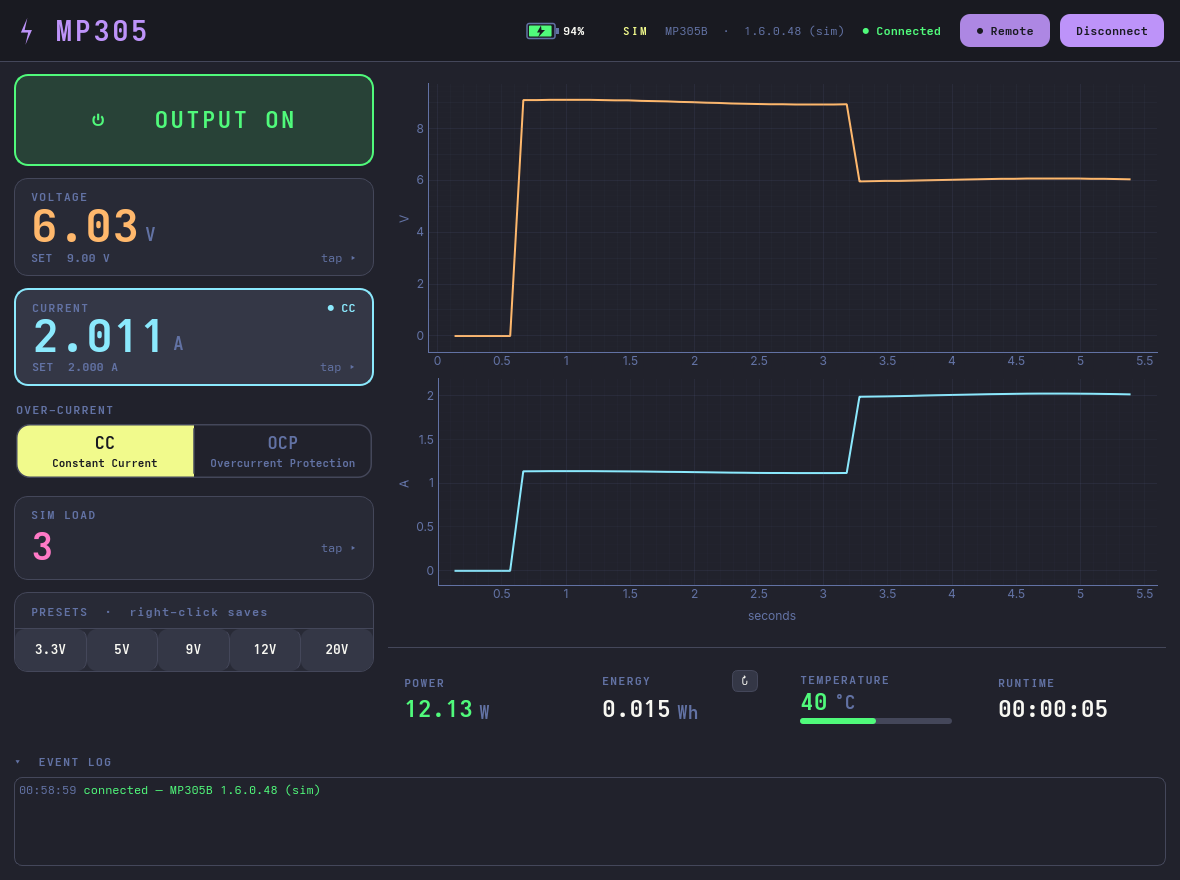
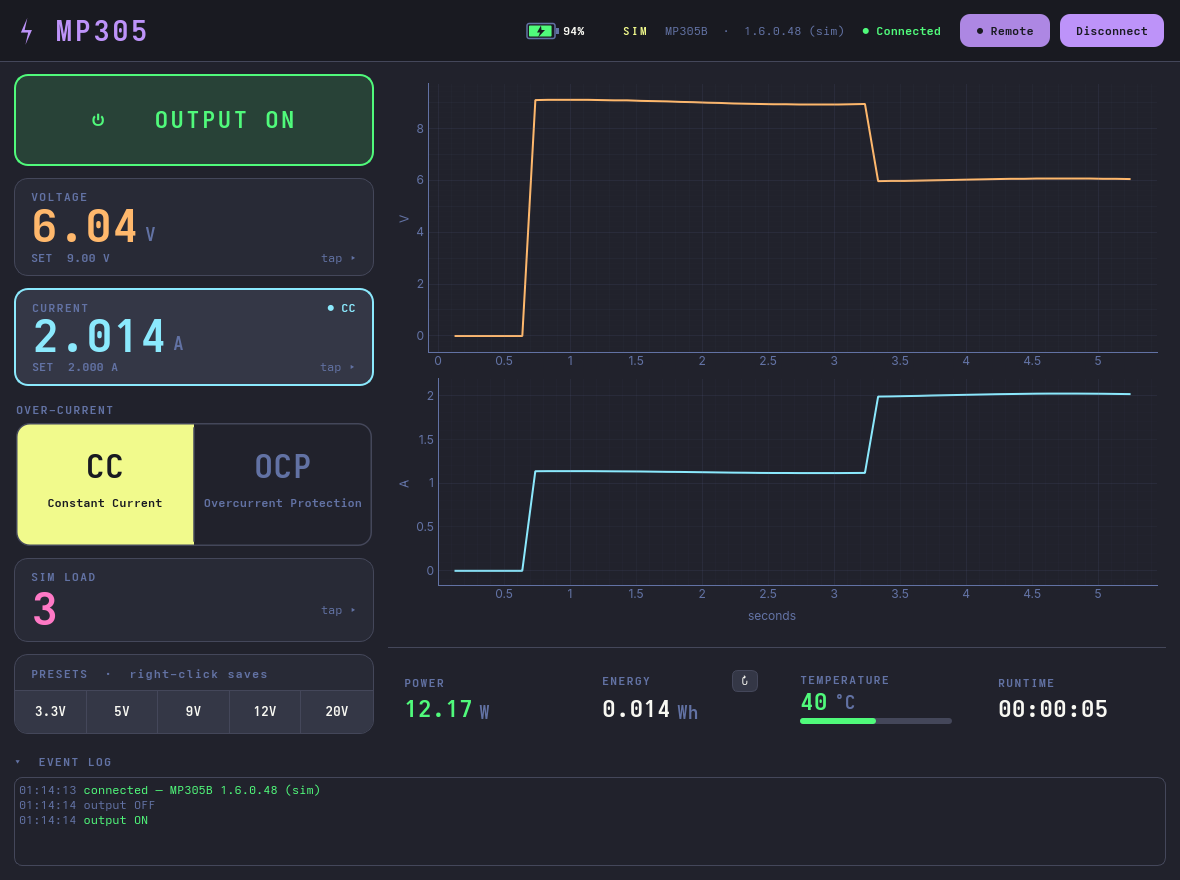
GUI: set-point swap when output off, larger CC/OCP toggle, preset corners + 0.4.6
- channel cards swap with output state: the SET-POINT is the big readable number while the
  output is OFF (with a SET tag + 'output off' subtitle); the live measurement is big when ON
- over-current CC|OCP toggle scales to fill the left column so it matches the right column's
  height (larger code, height-scaled fonts capped so the descriptions don't clip)
- SIM LOAD value sized to match the channel readouts (mono 34)
- fix preset button-group corners (square inner; only the group's outer bottoms rounded)
- bump 0.4.6 (library unchanged)

diff --git a/gui/mp305gui/app.py b/gui/mp305gui/app.py
@@ -89,8 +89,8 @@ class SegToggle(QWidget):
 
     def __init__(self, cells):                       # cells = [(code, description, color), ...]
         super().__init__(); self._cells = cells; self._idx = 0
-        self.setFixedHeight(54)
-        self.setSizePolicy(QSizePolicy.Policy.Expanding, QSizePolicy.Policy.Fixed)
+        self.setMinimumHeight(58)
+        self.setSizePolicy(QSizePolicy.Policy.Expanding, QSizePolicy.Policy.Expanding)
         self.setMinimumWidth(110 * len(cells))
         self.setCursor(Qt.CursorShape.PointingHandCursor)
 
@@ -107,20 +107,23 @@ class SegToggle(QWidget):
         p = QPainter(self); p.setRenderHint(QPainter.RenderHint.Antialiasing)
         w, h = self.width(), self.height(); r = 13; n = len(self._cells); cw = w / n   # card-shaped
         outer = QRectF(0.75, 0.75, w - 1.5, h - 1.5)
-        fcode = QFont(); fcode.setPointSize(13); fcode.setBold(True)
-        fsub = QFont(); fsub.setPointSize(8); fsub.setBold(True)
+        code_pt = int(max(14, min(26, h * 0.20)))    # scale the code with the cell height
+        sub_pt = int(max(8, min(10, h * 0.075)))      # cap: the descriptions are long, must not clip
+        fcode = QFont(); fcode.setPointSize(code_pt); fcode.setBold(True)
+        fsub = QFont(); fsub.setPointSize(sub_pt); fsub.setBold(True)
+        mid = h / 2
         for i, (code, sub, col) in enumerate(self._cells):
             x = i * cw; active = i == self._idx
             if active:
                 p.save(); p.setClipRect(QRectF(x, 0, cw, h))
                 p.setPen(Qt.PenStyle.NoPen); p.setBrush(QColor(col)); p.drawRoundedRect(outer, r, r)
                 p.restore()
-            code_col = QColor(C["panel"]) if active else QColor(C["text"] if active else C["muted"])
+            code_col = QColor(C["panel"]) if active else QColor(C["muted"])
             sub_col = QColor(C["panel"]) if active else QColor(C["muted"])
             p.setFont(fcode); p.setPen(code_col)
-            p.drawText(QRectF(x, h * 0.16, cw, h * 0.40), Qt.AlignmentFlag.AlignCenter, code)
+            p.drawText(QRectF(x, mid - h * 0.30, cw, h * 0.32), Qt.AlignmentFlag.AlignCenter, code)
             p.setFont(fsub); p.setPen(sub_col)
-            p.drawText(QRectF(x + 3, h * 0.55, cw - 6, h * 0.36), Qt.AlignmentFlag.AlignCenter, sub)
+            p.drawText(QRectF(x + 3, mid + h * 0.02, cw - 6, h * 0.26), Qt.AlignmentFlag.AlignCenter, sub)
         p.setPen(QPen(QColor(C["stroke"]), 1.5)); p.setBrush(Qt.BrushStyle.NoBrush)
         p.drawRoundedRect(outer, r, r)
         for i in range(1, n):
@@ -273,6 +276,7 @@ class ChannelCard(QFrame):
         self._unit, self._title, self._max = unit, title, vmax
         self._dec, self._color, self._measured = dec, color, measured
         self._set = 0.0; self._active = False
+        self._out_on = False; self._meas_val = 0.0
         self._base = f"#chan{{background:{C['card']};border:1px solid {C['stroke']};border-radius:14px;}}"
         self._hover = f"#chan{{background:{C['card_hi']};border:1px solid {C['hover']};border-radius:14px;}}"
         self._act = f"#chan{{background:{C['card_hi']};border:2px solid {color};border-radius:14px;}}"
@@ -289,7 +293,7 @@ class ChannelCard(QFrame):
             mu = QLabel(unit); mu.setProperty("class", "unit"); mrow.addWidget(mu, 0, Qt.AlignmentFlag.AlignBottom)
             mrow.addStretch(1); v.addLayout(mrow)
         srow = QHBoxLayout()
-        self.setlab = QLabel(""); self.setlab.setFont(mono(28) if not measured else QFont())
+        self.setlab = QLabel(""); self.setlab.setFont(mono(34) if not measured else QFont())
         if not measured:
             self.setlab.setStyleSheet(f"color:{color};")
         srow.addWidget(self.setlab); srow.addStretch(1); srow.addWidget(_lab("tap ▸", "sub"))
@@ -300,21 +304,46 @@ class ChannelCard(QFrame):
 
     def set_measured(self, val):
         if self._measured:
-            self.meas.setText(f"{val:.{self._dec}f}")
+            self._meas_val = val
+            if self._out_on:
+                self.meas.setText(f"{val:.{self._dec}f}")
+
+    def set_live(self, on):
+        if self._measured and on != self._out_on:
+            self._out_on = on
+            self._refresh_primary()
+
+    def _refresh_primary(self):
+        # the BIG number is the live measurement while output is ON, but the SET-POINT while
+        # it's OFF — so the configured V/A stays big and readable instead of a meaningless 0.
+        if not self._measured:
+            return
+        if self._out_on:
+            self.meas.setText(f"{self._meas_val:.{self._dec}f}")
+            self.setlab.setText(f"SET  {self._set:.{self._dec}f} {self._unit}")
+        else:
+            self.meas.setText(f"{self._set:.{self._dec}f}")
+            self.setlab.setText("output off")
+            self.tag.setText("SET"); self.tag.setStyleSheet(f"color:{C['muted']};font-weight:800;letter-spacing:1px;")
+        self.meas.setStyleSheet(f"color:{self._color};")
+        self.setlab.setStyleSheet(f"color:{C['muted']};font-weight:700;")
 
     def set_setpoint(self, v, emit=False):
         self._set = max(0.0, min(self._max, round(v, self._dec)))
-        txt = f"{self._set:.{self._dec}f}"
-        self.setlab.setText(txt if not self._measured else f"SET  {txt} {self._unit}")
-        self.setlab.setStyleSheet(f"color:{self._color};" if not self._measured
-                                  else f"color:{C['muted']};font-weight:700;")
+        if self._measured:
+            self._refresh_primary()
+        else:
+            self.setlab.setText(f"{self._set:.{self._dec}f}")
+            self.setlab.setStyleSheet(f"color:{self._color};")
         if emit:
             self.changed.emit(self._set)
 
     def set_active(self, active, tag):
         self._active = active
         self.setStyleSheet(self._act if active else self._base)
-        self.tag.setText(("● " + tag) if active else "")
+        if self._out_on:                       # CV/CC tag only when live; when off the tag is "SET"
+            self.tag.setText(("● " + tag) if active else "")
+            self.tag.setStyleSheet(f"color:{self._color};font-weight:800;")
 
     def _open_keypad(self):
         units = self._UNITS.get(self._unit, [(self._unit, 1.0)])
@@ -349,11 +378,15 @@ class Chip(QPushButton):
         """Style as a member of a flush button group (no gaps; only the group's outer
         bottom corners are rounded, to sit edge-to-edge in a card)."""
         self.setFixedHeight(42)
-        rad = ("border-bottom-left-radius:13px;" if i == 0 else "") + \
-              ("border-bottom-right-radius:13px;" if i == n - 1 else "")
+        # pin ALL four corners (the global QPushButton border-radius would otherwise round the
+        # tops): only the group's outer bottom corners are rounded, the rest square.
+        bl = 13 if i == 0 else 0
+        br = 13 if i == n - 1 else 0
+        radii = (f"border-top-left-radius:0px;border-top-right-radius:0px;"
+                 f"border-bottom-left-radius:{bl}px;border-bottom-right-radius:{br}px;")
         right = f"border-right:1px solid {C['stroke']};" if i < n - 1 else ""
         self.setStyleSheet(
-            f"QPushButton {{ background:{C['card_hi']}; border:none; {right}{rad}"
+            f"QPushButton {{ background:{C['card_hi']}; border:none; {right}{radii}"
             f" padding:0; font-weight:700; color:{C['text']}; }}"
             f"QPushButton:hover {{ background:{C['hover']}; color:{C['accent']}; }}"
             f"QPushButton:disabled {{ color:{C['off']}; }}")
@@ -462,14 +495,14 @@ class MainWindow(QWidget):
 
         # over-current behaviour is a SETTING → it lives with the controls (matches WebLink's
         # currentOver toggle in the control area): CC = current-limit, OCP = trip the output.
-        oc = QFrame(); oc.setFixedHeight(86)        # no card: the toggle has its own border
-        ov = QVBoxLayout(oc); ov.setContentsMargins(2, 4, 2, 6); ov.setSpacing(6)
+        oc = QFrame()        # no card: the toggle has its own border
+        ov = QVBoxLayout(oc); ov.setContentsMargins(2, 4, 2, 0); ov.setSpacing(6)
         ov.addWidget(_lab("OVER-CURRENT", "cardTitle"))
         self.cov = SegToggle([("CC", "Constant Current", C["warn"]),
                               ("OCP", "Overcurrent Protection", C["danger"])])
         self.cov.selected.connect(lambda i: None if self._sync else self.reqCurrentOver.emit(i))
-        ov.addWidget(self.cov)
-        v.addWidget(oc)
+        ov.addWidget(self.cov, 1)
+        v.addWidget(oc, 1)        # the toggle grows to fill, so the left column matches the right
 
         if isinstance(self.backend, SimBackend):
             self.ch_load = ChannelCard("SIM LOAD", "Ω", 100.0, C["pink"], 0, measured=False)
@@ -494,8 +527,7 @@ class MainWindow(QWidget):
             gl.addWidget(b, 1)
         pv.addWidget(grp); v.addWidget(pc)
 
-        v.addStretch(1)
-        self._set_enabled(False)
+        self._set_enabled(False)        # the over-current card (above) absorbs the slack now
         return col
 
     def _right_column(self):
@@ -668,6 +700,7 @@ class MainWindow(QWidget):
         # CV/CC is the device's regulation status (out_state: 2=CV, 1=CC) — read-only
         out_state = st.get("out_state", 0)
         is_cv, is_cc = out_state == 2, out_state == 1
+        self.ch_v.set_live(on); self.ch_a.set_live(on)
         self.ch_v.set_measured(st["voltage"]); self.ch_a.set_measured(st["current"])
         self.ch_v.set_active(is_cv, "CV"); self.ch_a.set_active(is_cc, "CC")
         self._sync = True

diff --git a/python/pymp305/__init__.py b/python/pymp305/__init__.py
@@ -52,4 +52,4 @@ __all__ = [
     "MODEL_DC", "MODEL_PROGRAMMABLE", "MODEL_USB_PD", "MODEL_CHARGE",
     "protocol", "commands", "ota", "Firmware", "IntelHexFirmware", "BootInfo",
 ]
-__version__ = "0.4.5"
+__version__ = "0.4.6"

diff --git a/CHANGELOG.md b/CHANGELOG.md
@@ -4,6 +4,16 @@ All notable changes to `pymp305`. Versions follow semver (pre-1.0: minor = featu
 
 > ⚠️ Nothing here has been validated against physical hardware yet — see the README banner.
 
+## 0.4.6
+
+### Changed
+- **GUI readability/polish**: channel cards now **swap** with output state — the **set-point**
+  becomes the big number while the output is OFF (with a `SET` tag), and the live measurement
+  is big while ON. The over-current `CC | OCP` toggle scales up to fill the left column (so it
+  matches the right column's height) with larger type; the SIM LOAD value matches the other
+  readouts; preset button-group corners are fixed (square inner, only the group's outer bottoms
+  rounded). Added a keypad-over-dashboard screenshot.
+
 ## 0.4.5
 
 ### Fixed

diff --git a/gui/README.md b/gui/README.md
@@ -32,7 +32,9 @@ Left — controls:
 - **Output** — one big green/red card-button (huge hit target; state unmistakable). It *is*
   the on/off, so there's no separate "all off".
 - **Voltage / Current channel cards** — measured value (big) + a tappable **SET** sub-row;
-  the active channel highlights with a `CV`/`CC` tag (the device's regulation status).
+  the active channel highlights with a `CV`/`CC` tag (the device's regulation status). When the
+  output is **off**, the card swaps to show the **set-point** as the big number (with a `SET`
+  tag) so your configured V/A stays readable instead of a meaningless 0.
 - **Keypad** — tap a channel for an on-screen pad with **digit + unit** buttons
   (`9`→`V`, `1500`→`mA`); exact entry, no keyboard.
 - **Over-current** — a `CC | OCP` toggle (with descriptions, like the WebLink): the device's